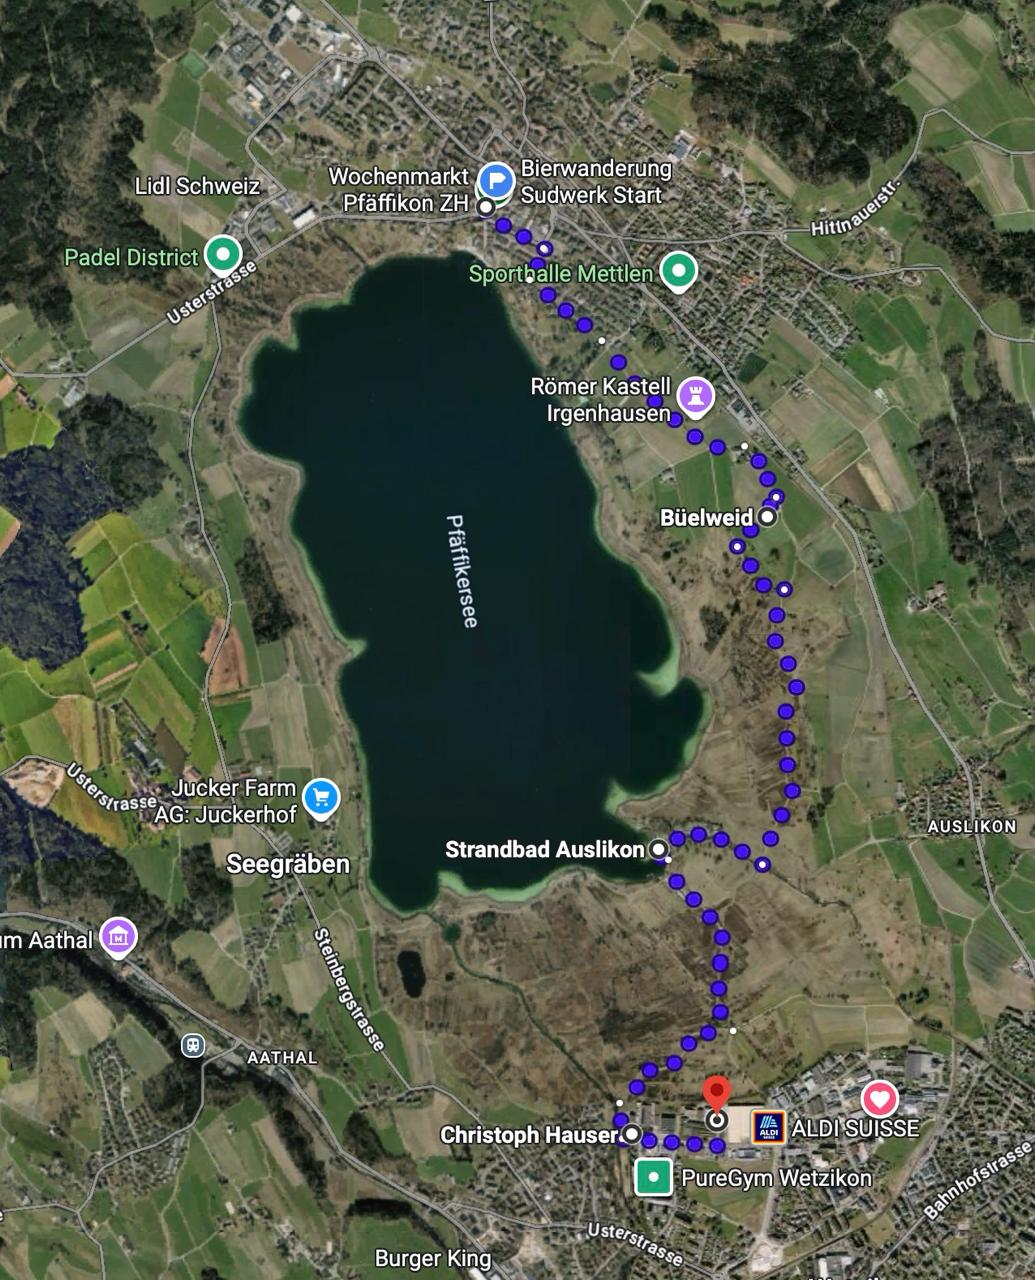
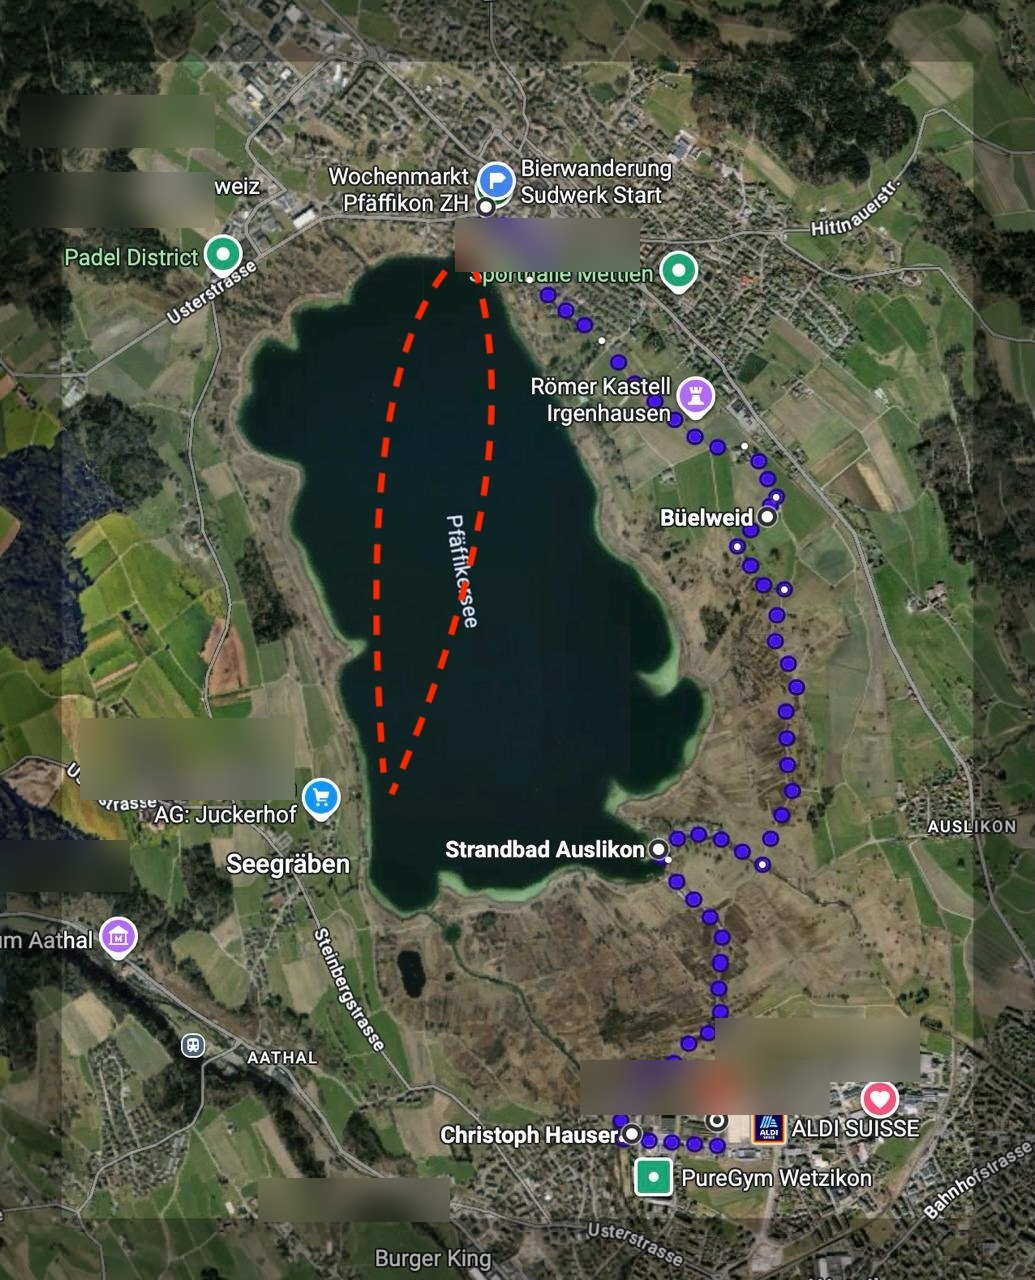
Karte: Irrelevante POIs entfernt (Lidl, Padel, ALDI etc.)

diff --git a/broschuere_web.html b/broschuere_web.html
@@ -488,21 +488,16 @@
     <h2>Die Route — frei wählbar</h2>
     <p class="section-sub">7 Bier-Stationen rund um den Pfäffikersee. Bootsfahrt optional (CHF 15.–).</p>
     <div class="map-box">
-      <div style="position:relative; width:100%; border-radius:8px; overflow:hidden;">
-        <iframe src="https://www.google.com/maps/embed?pb=!1m57!1m12!1m3!1d21625.524637861792!2d8.768802626550835!3d47.34967704699613!2m3!1f0!2f0!3f0!3m2!1i1024!2i768!4f13.1!4m42!3e2!4m4!2s47.366996%2C%208.781946!3m2!1d47.366996!2d8.781946!4m5!1s0x479abc8a31203dc7%3A0xc94d55a74de520ef!2sBootsvermietung%20Pf%C3%A4ffikersee%20booti%2C%20Im%20Kehr%2025%2C%208330%20Pf%C3%A4ffikon!3m2!1d47.3640858!2d8.780980699999999!4m5!1s0x479a97617e4e0c0b%3A0xca5da98b1f62fe5d!2sBr%C3%BCll*21Bier&#39;s%20Garten%2C%20Stogelenweg%2C%208330%20Pf%C3%A4ffikon!3m2!1d47.3640261!2d8.7819489!4m5!1s0x479abc71078b603d%3A0xc012f8f8879216d6!2sB%C3%BCelweid%201%2C%208330%20Pf%C3%A4ffikon!3m2!1d47.354672099999995!2d8.7964665!4m5!1s0x479abb88cbbe8ca3%3A0x4578337010c028df!2sStrandbad%20Auslikon%2C%20Strandbadstrasse%2C%208331%20Auslikon!3m2!1d47.3428502!2d8.7905354!4m5!1s0x479abb96d6fdcaa3%3A0x2029494cc9999bc1!2sChristoph%20Hauser%2C%20Eichh%C3%B6lzliweg%202a%2C%208620%20Wetzikon!3m2!1d47.332611899999996!2d8.7891509!4m5!1s0x479abb806d4991a9%3A0x26b5fa9a35173677!2sBraukollektiv%20Z%C3%BCri%20Oberland%2C%20FBW%20Areal%2C%20Motorenstrasse%20100%2C%208620%20Wetzikon!3m2!1d47.3330427!2d8.7920129!5e0!3m2!1sde!2sch!4v1777041813755!5m2!1sde!2sch"
-          width="100%" height="500" style="border:0; display:block;" allowfullscreen="" loading="lazy" referrerpolicy="no-referrer-when-downgrade"></iframe>
-        <!-- Booti-Seeweg als SVG-Overlay: Pfäffikon → Seegräben (Punt Bier) -->
-        <svg style="position:absolute;top:0;left:0;width:100%;height:100%;pointer-events:none;" viewBox="0 0 100 100" preserveAspectRatio="none">
-          <defs>
-            <marker id="arrow" markerWidth="6" markerHeight="6" refX="3" refY="3" orient="auto">
-              <path d="M0,0 L0,6 L6,3 z" fill="#1e4a6e"/>
-            </marker>
-          </defs>
-          <!-- gestrichelte Linie Pfäffikon-Pier → Seegräben/Punt Bier -->
-          <path d="M 52,28 Q 35,45 28,58" stroke="#1e4a6e" stroke-width="0.8" stroke-dasharray="2,1.5" fill="none" marker-end="url(#arrow)" opacity="0.85"/>
-          <!-- ⛵ Label -->
-          <text x="36" y="42" font-size="4" fill="#1e4a6e" font-weight="bold" opacity="0.9">⛵ CHF 15.–</text>
-        </svg>
+      <div style="position:relative; display:inline-block; width:100%;">
+        <img src="karte_pfaeffikersee.jpg" alt="Karte Pfäffikersee mit 7 Bierstationen und Bootsroute" style="width:100%; display:block; border-radius:8px;">
+        <div style="position:absolute;top:6%;left:50%;transform:translate(-50%,-50%);width:32px;height:32px;background:#7a2415;color:#fff;border-radius:50%;display:flex;align-items:center;justify-content:center;font-weight:800;font-size:0.95rem;border:2px solid #fff;box-shadow:0 2px 6px rgba(0,0,0,0.5);" title="1 · Brauerei Sudwerk">1</div>
+        <div style="position:absolute;top:17%;left:54%;transform:translate(-50%,-50%);width:32px;height:32px;background:#7a2415;color:#fff;border-radius:50%;display:flex;align-items:center;justify-content:center;font-weight:800;font-size:0.95rem;border:2px solid #fff;box-shadow:0 2px 6px rgba(0,0,0,0.5);" title="2 · Brüll Bier">2</div>
+        <div style="position:absolute;top:43%;left:67%;transform:translate(-50%,-50%);width:32px;height:32px;background:#7a2415;color:#fff;border-radius:50%;display:flex;align-items:center;justify-content:center;font-weight:800;font-size:0.95rem;border:2px solid #fff;box-shadow:0 2px 6px rgba(0,0,0,0.5);" title="3 · Milchhüsli">3</div>
+        <div style="position:absolute;top:63%;left:31%;transform:translate(-50%,-50%);width:32px;height:32px;background:#7a2415;color:#fff;border-radius:50%;display:flex;align-items:center;justify-content:center;font-weight:800;font-size:0.95rem;border:2px solid #fff;box-shadow:0 2px 6px rgba(0,0,0,0.5);" title="4 · Punt Bier">4</div>
+        <div style="position:absolute;top:70%;left:55%;transform:translate(-50%,-50%);width:32px;height:32px;background:#7a2415;color:#fff;border-radius:50%;display:flex;align-items:center;justify-content:center;font-weight:800;font-size:0.95rem;border:2px solid #fff;box-shadow:0 2px 6px rgba(0,0,0,0.5);" title="5 · Seebueb">5</div>
+        <div style="position:absolute;top:90%;left:49%;transform:translate(-50%,-50%);width:32px;height:32px;background:#7a2415;color:#fff;border-radius:50%;display:flex;align-items:center;justify-content:center;font-weight:800;font-size:0.95rem;border:2px solid #fff;box-shadow:0 2px 6px rgba(0,0,0,0.5);" title="6 · Robenhauser">6</div>
+        <div style="position:absolute;top:88%;left:53%;transform:translate(-50%,-50%);width:32px;height:32px;background:#7a2415;color:#fff;border-radius:50%;display:flex;align-items:center;justify-content:center;font-weight:800;font-size:0.95rem;border:2px solid #fff;box-shadow:0 2px 6px rgba(0,0,0,0.5);" title="7 · Braukollektiv">7</div>
+        <div style="position:absolute;top:22%;left:47%;transform:translate(-50%,-50%);width:32px;height:32px;background:#1e4a6e;color:#fff;border-radius:50%;display:flex;align-items:center;justify-content:center;font-size:1rem;border:2px solid #fff;box-shadow:0 2px 6px rgba(0,0,0,0.5);" title="Booti Rundkurs">⛵</div>
       </div>
       <div class="map-caption">Wanderroute zu Fuss (blau) · ⛵ gestrichelt: Booti Pfäffikon → Seegräben (Punt Bier, CHF 15.–) · Reihenfolge frei wählbar</div>
     </div>
